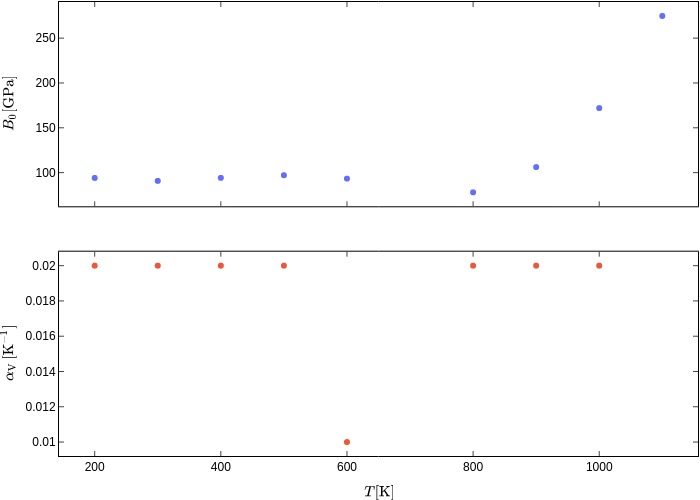
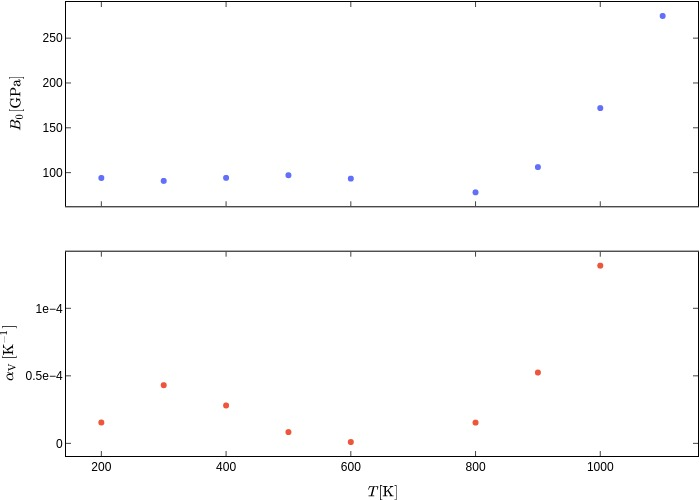
fix: amorphous properties

diff --git a/ml4md/plot_material_properties.py b/ml4md/plot_material_properties.py
@@ -58,7 +58,7 @@ def main():
     v_0 = np.array(v_0)
     b_0 = np.array(b_0)
     alpha = [
-        (((v_0[i+1] - v_0[i]) * 100) / (t[i+1] - t[i])) / (((v_0[i+1] - v_0[i]) * 100) / 2)
+        (((v_0[i+1] - v_0[i])) / (t[i+1] - t[i])) / (((v_0[i+1] + v_0[i])) / 2)
         for i in range(len(v_0) - 1)
     ]
     alpha = np.array(alpha)
@@ -108,6 +108,7 @@ def main():
 
     fig.update_yaxes(
         title_text="$B_0 [\mathrm{GPa}]$",
+        exponentformat="e",
         showgrid=False,
         linewidth=1,
         linecolor="black",
@@ -120,6 +121,7 @@ def main():
 
     fig.update_yaxes(
         title_text="$\\alpha_\mathrm{V} \, [\mathrm{K}^{-1}]$",
+        exponentformat="e",
         showgrid=False,
         linewidth=1,
         linecolor="black",
@@ -127,7 +129,8 @@ def main():
         ticks="inside",
         showline=True,
         row=2,
-        col=1
+        col=1,
+        zeroline=False
     )
 
     fig.update_layout(
